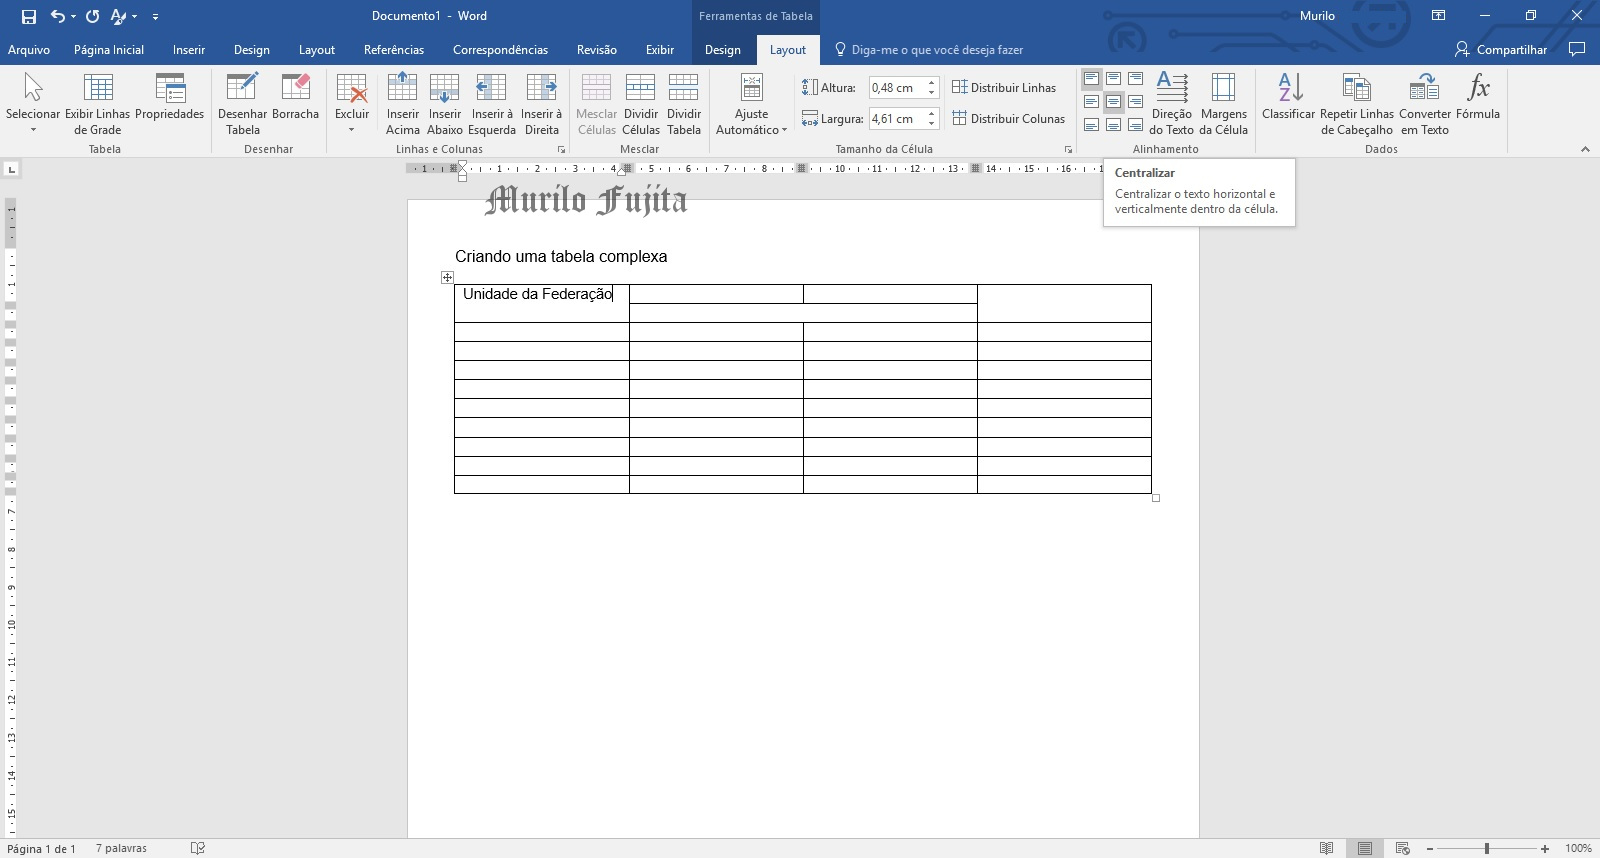
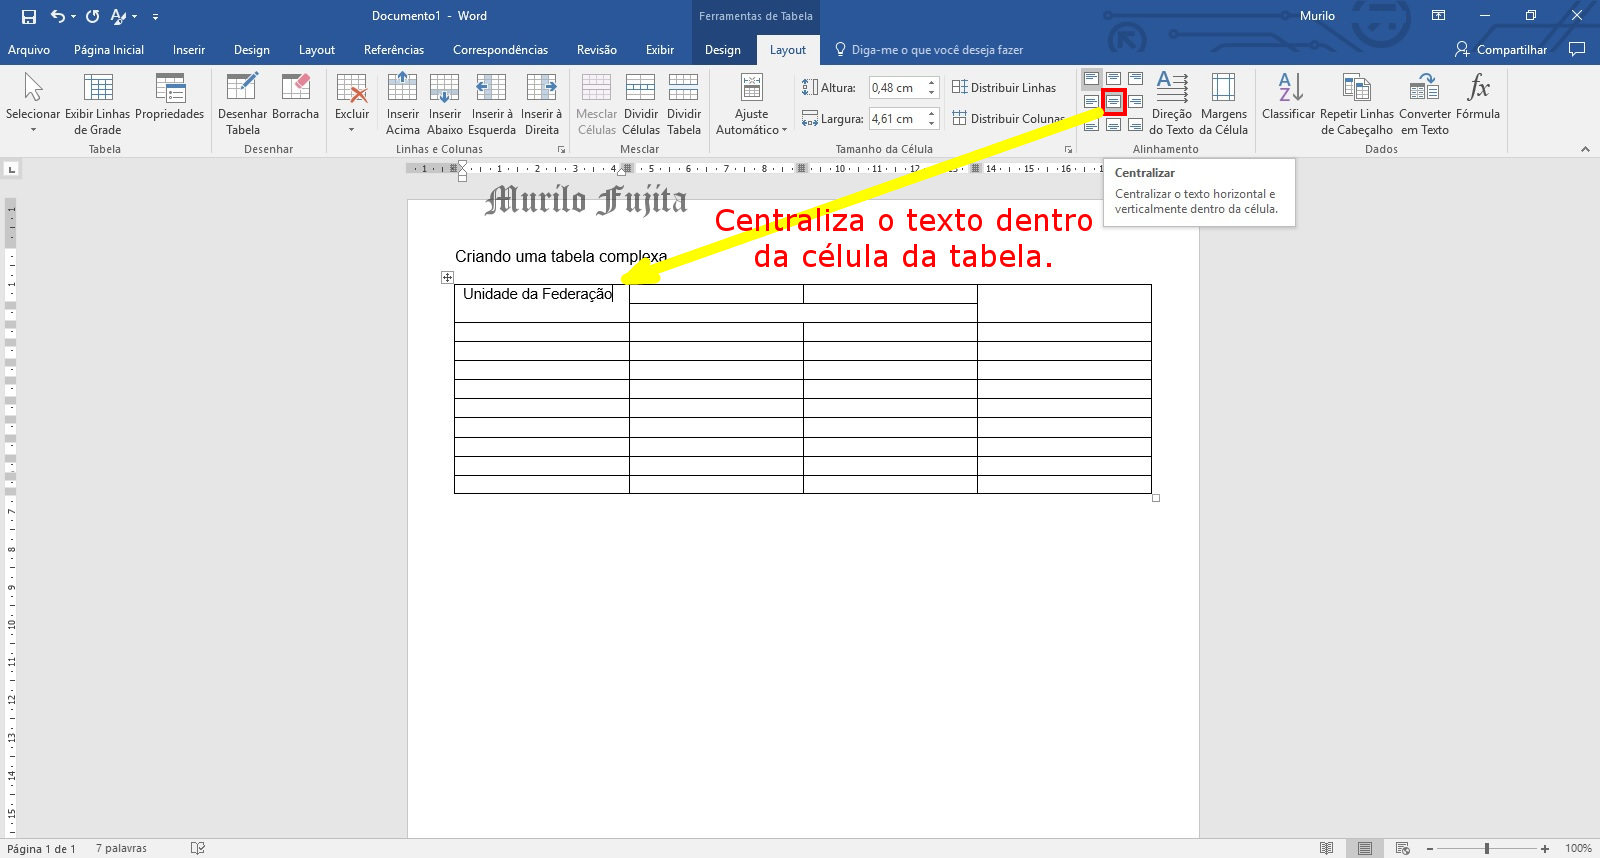
Sumário.

Changed region(s): [[0.375, 0.2121, 0.6875, 0.3333], [0.5625, 0.1515, 0.6562, 0.2121], [0.6562, 0.0909, 0.7188, 0.1515]]

diff --git a/sumario/sumario.html b/sumario/sumario.html
@@ -1,0 +1,128 @@
+<html>
+<head>
+<meta charset="UTF-8">
+<title>Índice</title>
+<LINK href="../css/estilo.css" rel="stylesheet" type="text/css" />
+</head>
+<body>
+<h1>Elementos pré-textuais</h1>
+<h2>Índice</h2>
+<div class="tela">
+	<p>As instruções a seguir orientam como criar um sumário automaticamente.</p>
+	<p>Como exemplo, considere os textos que são usados como títulos e subtítulos.</p>
+	<p>Aplique o estilo para cada texto como é mostrado na figura 1.</p>
+	<p></p>
+	<legend>Figura 1</legend>
+	<img src="sumario01.jpg">
+</div>
+
+<div class="tela">
+	<p>O resultado é visto na figura 2.</p>
+	<p>Não prossiga enquanto não terminar de aplicar todos os estilos.</p>
+	<p></p>
+	<p></p>
+	<p></p>
+	<legend>Figura 2</legend>
+	<img src=" sumario02.jpg">
+</div>
+
+<div class="tela">
+	<p>Meu superior &rarrw; Referências.</p>
+	<p>Clique em Sumário.</p>
+	<p>Escolha <strong>Sumário Automático 1</strong>.</p>
+	<p>Veja figura 3.</p>
+	<p></p>
+	<legend>Figura3 </legend>
+	<img src="sumario03.jpg">
+</div>
+
+<div class="tela">
+	<p>O resultado é mostrado na Figura 4.</p>
+	<p></p>
+	<p></p>
+	<p></p>
+	<p></p>
+	<legend>Figura 4</legend>
+	<img src="sumario04.jpg">
+</div>
+
+<div class="tela">
+	<p>A norma acadêmica exige <strong>a palavra “Sumário” deve ser centralizada e com a mesma fonte utilizada nas seções primárias, ou seja, CAIXA ALTA E NEGRITO.</strong></p>
+	<p>A seta aponta que o recurso automático do <i>Microsoft Word</i> <strong>não obedece</strong> a exigência.</p>
+	<p>Clique na seta da galeria de estilos para exibir outros estilos para que seja modificado o estilo do cabeçalho do sumário.</p>
+	<p>Veja Figura 5.</p>
+	<p></p>
+	<legend>Figura 5</legend>
+	<img src="sumario05.jpg">
+</div>
+
+<div class="tela">
+	<p>Clique com o botão direito em <strong>Cabeçalho do Sumário</strong>.</p>
+	<p>Clique em Modificar.</p>
+	<p>Veja a figura 6.</p>
+	<p></p>
+	<p></p>
+	<legend>Figura 6</legend>
+	<img src="sumario06.jpg">
+</div>
+
+<div class="parte">
+	<p>Para adequar às exigências, modifique:</p>
+	<p>O retângulo vermelho altera a fonte.</p>
+	<p>O retângulo verde altera o tamanho da fonte.</p>
+	<p>O retângulo amarelo habilita o negrito.</p>
+	<p>O retângulo laranja altera a cor da fonte.</p>
+	<p>O retângulo azul centraliza o texto.</p>
+	<p>Clique no botão destacado pelo retângulo rósea.</p>
+	<p>Veja a Figura 7.</p>
+	<legend>Figura 7</legend>
+	<img src="sumario07.jpg">
+</div>
+
+<div class="parte">
+	<p>Habilite a caixa alta clicando em <strong>Todas em maiúsculas</strong>.</p>
+	<p>Veja Figura 8.</p>
+	<p></p>
+	<legend>Figura 8</legend>
+	<img src="sumario08.jpg">
+</div>
+
+<div class="parte">
+	<p>O resultado é visto na Figura 9 com o Sumário centralizado e em CAIXA ALTA.</p>
+	<p>Sempre que fizer uma modificação (retirar ou adicionar conteúdos) os títulos serão reposicionados.</p>
+	<p>Clique em "Atualizar Sumário..." com o botão esquerdo como mostra a Figura 9.</p>
+	<p></p>
+	<p></p>
+	<legend>Figura 9</legend>
+	<img src="sumario09.jpg">
+</div>
+
+<div class="parte">
+	<p>Se for escolhido a 1ª opção, "Atualizar apenas os números da página", somente os números das páginas são modificados e os títulos permanecerão.</p>
+	<p>Já a 2ª opção, "Atualizar o índice inteiro", todas as modificações serão atualizadas.</p>
+	<p>Portanto, prefira a 2ª opção.</p>
+	<p>Veja a Figura 10.</p>
+	<legend>Figura 10</legend>
+	<img src="sumario10.jpg">
+</div>
+
+<div class="tela">
+	<p>Por fim, não é recomendado, mas caso queira retirar o sumário, siga os passos:</p>
+	<p>Menu superior &rarr; Referênias.</p>
+	<p>Clique em Sumário.</p>
+	<p>Clique em <strong>Remover sumário</strong>.</p>
+	<p>Veja Figura 11.</p>
+	<legend>Figura 11</legend>
+	<img src="sumario11.jpg">
+</div>
+
+<div class="rodape">
+	<table width=100%>
+		<tr> 
+			<td align="left"><a href="../word2016.html">Menu principal</a></td>  
+		</tr>		
+	</table>
+</div>
+
+</body>
+</html>

diff --git a/tabela/tabela.html b/tabela/tabela.html
@@ -22,7 +22,7 @@
 <div class="parte">
 	<p>As instruções a seguir criam uma tabela mais elaborada.</p>
 	<p>Como exercício, será feita uma tabela como a da página 16 do documento "Texto 1 GUIA TRABALHOS ACADÊMICOS_abril 2015".</p>
-	<p>Veja a figura 1a</p>
+	<p>Veja a figura 1a.</p>
 	<p></p>
 	<p></p>
 	<legend>Figura 1a</legend>
@@ -40,9 +40,9 @@
 </div>
 
 <div class="parte">
-	<p></p>
-	<p></p>
-	<p></p>
+	<p>No campo <strong>Número de colunas</strong> digite <strong>4</strong>.</p>
+	<p>No campo <strong>Número de linhas</strong> digite <strong>11</strong>.</p>
+	<p>Veja Figura 3.</p>
 	<p></p>
 	<p></p>
 	<legend>Figura 3</legend>
@@ -90,8 +90,8 @@
 </div>
 
 <div class="tela">
-	<p></p>
-	<p></p>
+	<p>Digite os valores como na Figura 1a.</p>
+	<p>Veja a Figura 8.</p>
 	<p></p>
 	<p></p>
 	<p></p>
@@ -100,7 +100,7 @@
 </div>
 
 <div class="tela">
-	<p></p>
+	<p>Para que a palavra (kg) fique centralizada na célula, clique no ícone destacado pelo círculo vermelho.</p>
 	<p></p>
 	<p></p>
 	<p></p>
@@ -110,8 +110,8 @@
 </div>
 
 <div class="parte">
-	<p></p>
-	<p></p>
+	<p>Após todas as células prenchidas com valores.</p>
+	<p>Veja Figura 10.</p>
 	<p></p>
 	<p></p>
 	<p></p>
@@ -120,7 +120,7 @@
 </div>
 
 <div class="tela">
-	<p></p>
+	<p>Selecione parte da tabela como mostra a Figura 11.</p>
 	<p></p>
 	<p></p>
 	<p></p>
@@ -160,8 +160,8 @@
 </div>
 
 <div class="parte">
-	<p></p>
-	<p></p>
+	<p>Seleciona apenas a última linha da tabela.</p>
+	<p>Veja Figura 15.</p>
 	<p></p>
 	<p></p>
 	<p></p>
@@ -187,6 +187,14 @@
 	<p></p>
 	<legend>Figura 17</legend>
 	<img src="tabela17.jpg">
+</div>
+
+<div class="rodape">
+	<table width=100%>
+		<tr> 
+			<td align="left"><a href="../word2016.html">Menu principal</a></td>  
+		</tr>		
+	</table>
 </div>
 
 </body>

diff --git a/word2016.html b/word2016.html
@@ -28,13 +28,15 @@
 		<tr><td><a href="apresentacao_grafica/projetoGrafico.html">Projeto gráfico</td> <td>19/03/2018</td> </tr>
 		<tr><td><a href="apresentacao_grafica/espacamento-alinhamento.html">Espaçamento E Alinhamento</td> <td>19/03/2018</td> </tr>
 		<tr><td><a href="apresentacao_grafica/indicativo_de_secao_e_numeração_progressiva.html">Indicativo De Seção E Numeração Progressiva</a><td>19/03/2018</td></tr>
+		<tr> <td><a href="tabela/tabela.html">Tabela</a></td> <td>26/03/2018</td> </tr>
+		<tr> <td><a href="sumario/sumario.html">Sumário</a></td> <td>26/03/2018</td> </tr>
 	</table>
 </div>
 
 
 <div class="rodape">
 	&copy Murilo Fujita - Todos os direitos reservados.
-	<h4> Última atualização: 20/03/2018 </h4>
+	<h4> Última atualização: 25/03/2018 </h4>
 	<h4>
 		<div id="sfce1w6x6wm2mwwek9c32auyw7qw1gfwdt2"></div>
 		<script type="text/javascript" src="https://counter8.freecounter.ovh/private/counter.js?c=e1w6x6wm2mwwek9c32auyw7qw1gfwdt2&down=async" async></script>
